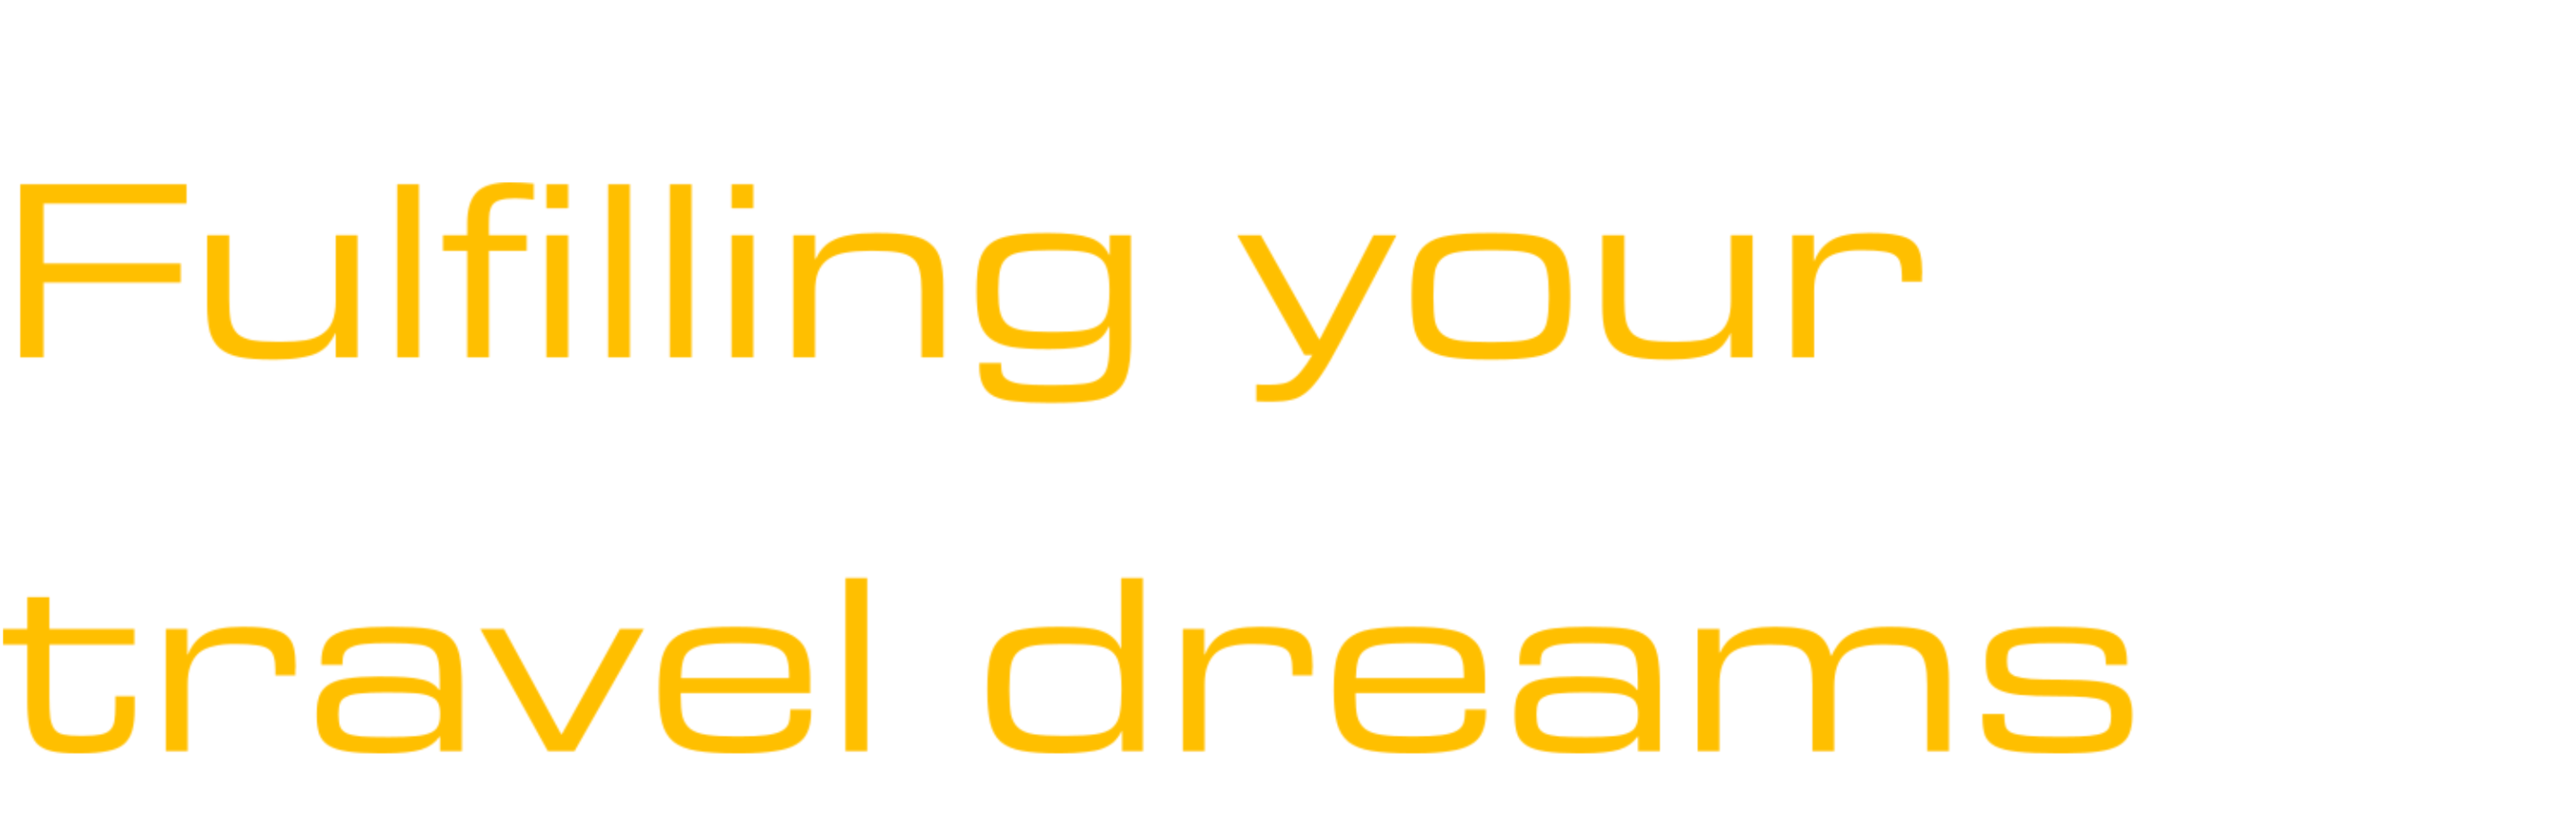
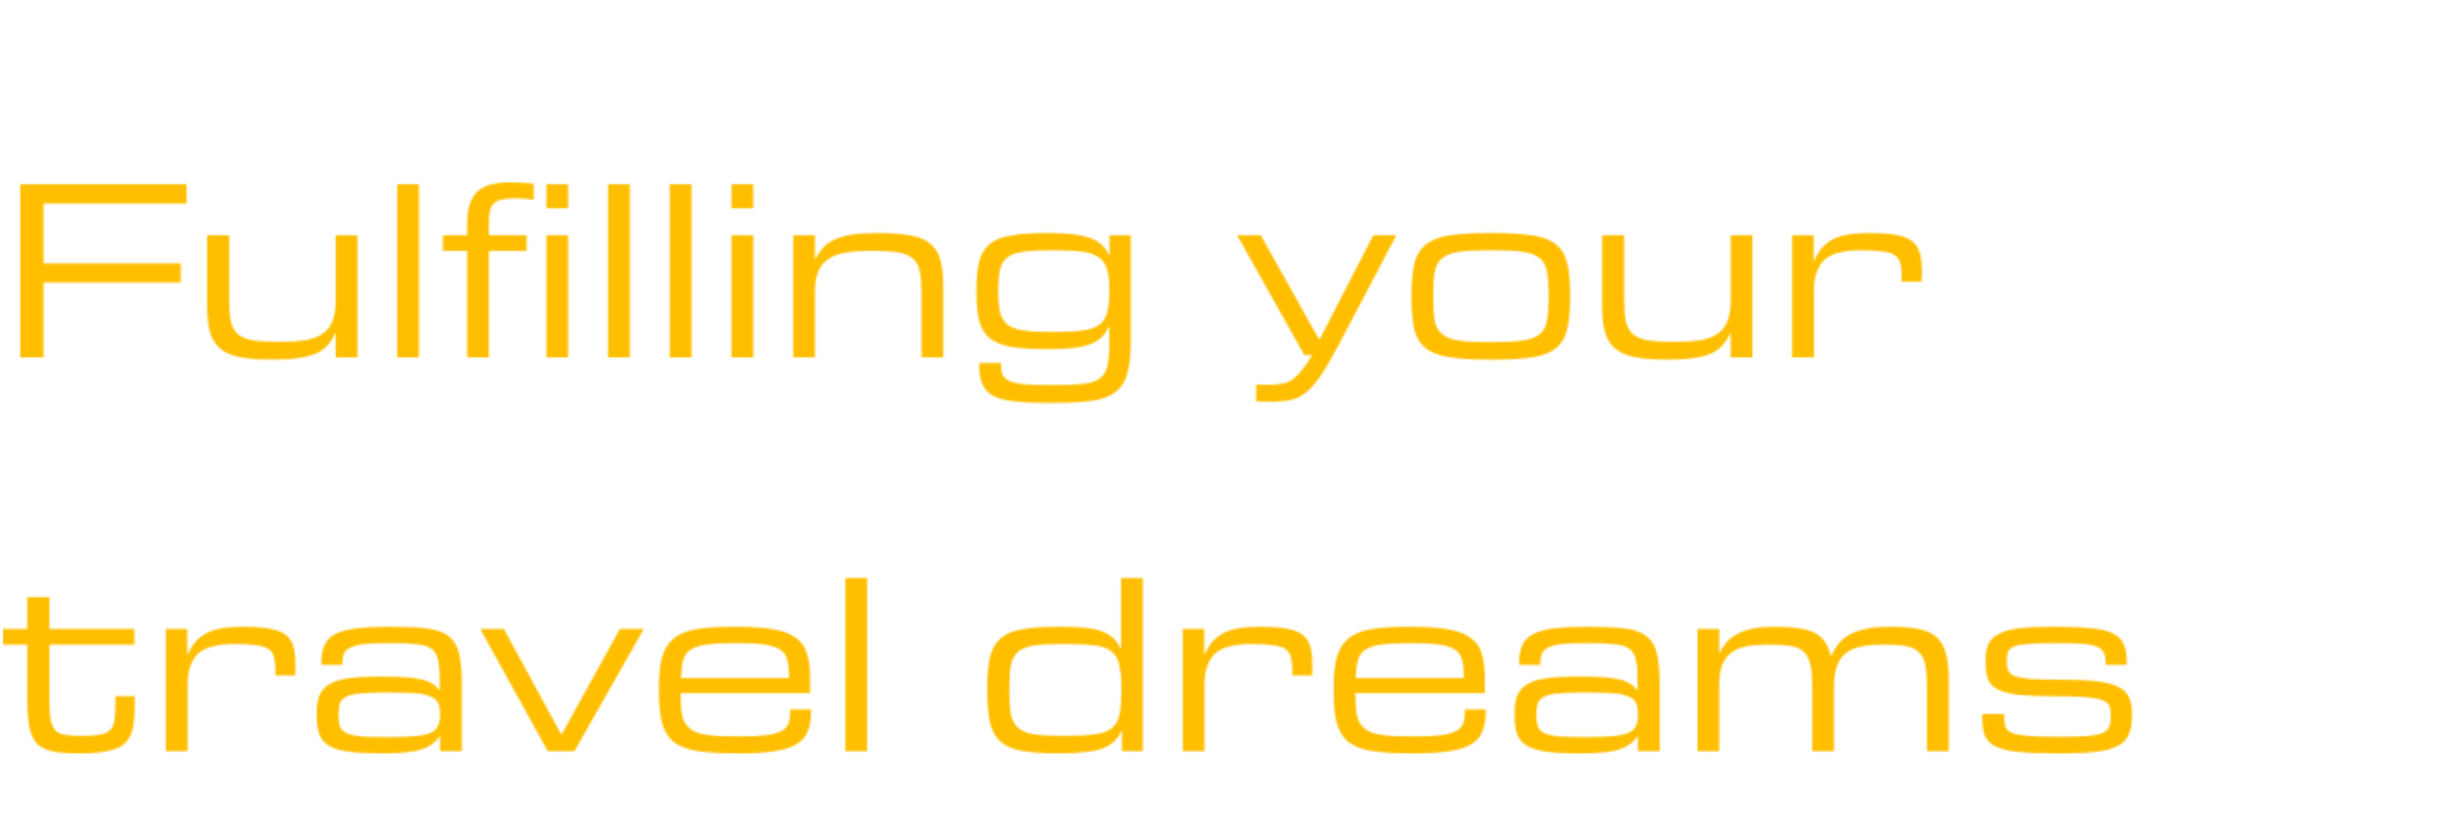
slogan

Changed region(s): [[0.0, 0.6783, 0.8674, 0.925], [0.062, 0.2158, 0.8055, 0.4933], [0.062, 0.2158, 0.0929, 0.2467]]

diff --git a/index.html b/index.html
@@ -47,7 +47,7 @@
                     data-aos-easing="ease-in-out-quart">
                     <div class="text-left">
                         <h5 class="hero-t1">WELCOME TO TRAVELER'S HUB</h5>
-                        <img src="assets/slogan2.png" class="img-fluid hero-img" alt="">
+                        <img src="assets/slogan2.png" class="img-fluid hero-img bg-success" alt="">
                         <!-- <h1>Fulfilling your travel dreams</h1> -->
                     </div>
                 </div>
